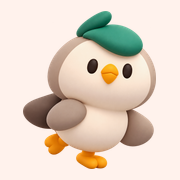
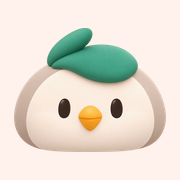
꾸기 얼굴 포즈 반영과 이름 뜻 보완
원본 poses/에 올라온 얼굴 그림 중 4개를 쓴다.
f-idle은 로고·푸터·파비콘·OG 로고, f-q는 트러블슈팅 카드,
f-smile은 팀 계정 필자 아바타(authors.json mascot 필드), f-calm은 빈 화면에 둔다.
꾸기 소개와 첫 글에 이름의 두 뜻(꾸준히 기록하다, 뻐꾸기)을 적는다.

diff --git a/src/content.config.ts b/src/content.config.ts
@@ -15,6 +15,8 @@ const authors = defineCollection({
     tracks: z.array(z.string()).default([]),
     lead: z.boolean().default(false),
     github: z.string().optional(),
+    // 사람 사진 대신 꾸기 얼굴을 아바타로 쓴다(팀 계정용). 값은 Mascot의 포즈 이름
+    mascot: z.enum(['f-idle', 'f-smile', 'f-calm', 'f-q']).optional(),
     bio: z.string().optional(),
   }),
 });

diff --git a/src/content/posts/2026-10-19-hello-kkugi-tech.md b/src/content/posts/2026-10-19-hello-kkugi-tech.md
@@ -17,7 +17,7 @@ tags: [꾸기, 블로그]
 
 꾸기는 반대로 해요. **꾸기가 기록을 미리 준비해 두고, 사용자는 확인만 하면 돼요.** 식사 사진을 찍으면 AI가 음식과 양을 알아보고, 워치가 운동을 따라가며, 코치가 그날 남은 칼로리와 다음 행동을 먼저 알려 줘요.
 
-이름은 뻐꾸기에서 따왔어요. 때가 되면 먼저 울리는 뻐꾸기시계처럼, 먼저 말을 거는 코치가 되고 싶었거든요.
+이름 꾸기에는 두 가지 뜻을 담았어요. **'꾸준히 기록하다'**의 줄임말이면서, 알람의 상징인 **뻐꾸기**의 꾸기이기도 해요. 꾸준한 기록을 꾸기가 대신 챙기고, 때가 되면 먼저 울리는 뻐꾸기시계처럼 먼저 말을 거는 코치가 되고 싶었거든요.
 
 ## 이런 글을 쓸 거예요
 

diff --git a/README.md b/README.md
@@ -67,9 +67,12 @@ npm run preview  # 빌드 결과 확인. draft 글은 빠진다
 
 | 포즈 | 쓰는 곳 |
 | --- | --- |
-| `front` | 로고, 푸터, 트러블슈팅 카드, 파비콘·OG 로고(`public/`) |
+| `f-idle` | 로고, 푸터, 파비콘·OG 로고(`public/`) |
 | `wave` | 홈 히어로 |
-| `laptop` · `camera` · `phone` | 커버 사진이 없는 기술 · 문화 · 소식 글 카드 |
+| `laptop` · `f-q` · `camera` · `phone` | 커버 사진이 없는 기술 · 트러블슈팅 · 문화 · 소식 글 카드 |
+| `f-smile` | 팀 계정(`teamyumyum`) 필자 아바타. `authors.json`의 `mascot` 필드 |
+| `f-calm` | 글이 없을 때의 빈 화면 |
+| `front` | 기본 포즈(지금은 화면에 쓰지 않음) |
 | `heart` | 꾸기 소개 |
 | `sleep` | 404 |
 
